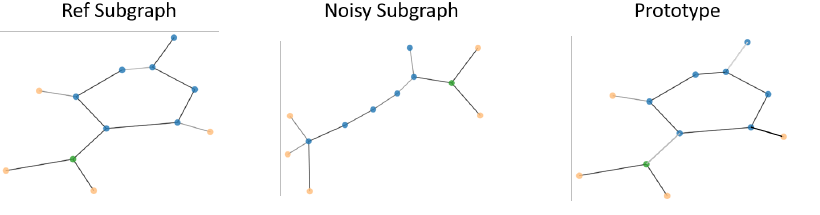
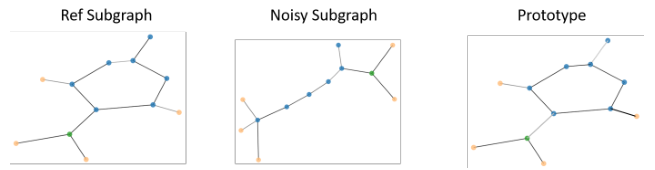
Prevent blog figures from being clipped
Make paper-review figures render in a wider contain frame and replace the GNNExplainer crops with PDF-derived assets that include the full figure area.

Constraint: User reported that the published paper figures were visually clipped.

Rejected: CSS-only fix | Several source PNGs were already tightly cropped, so the assets also needed replacement.

Confidence: high

Scope-risk: moderate

Directive: For paper figure posts, preserve full figure bounds at the asset level and use contain-style responsive frames rather than tight crops.

Tested: python -m json.tool data/blog/posts.json; pytest -q tests/test_seo.py; npm --prefix web-ui run build; manual inspection of regenerated representative figures.

Not-tested: Browser screenshot comparison after production deploy.

diff --git a/web-ui/src/components/BlogPage.css b/web-ui/src/components/BlogPage.css
@@ -1129,9 +1129,10 @@
 
 .blog-detail-content img {
   display: block;
-  width: auto;
+  width: 100%;
   max-width: 100%;
   height: auto;
+  max-height: none;
   box-sizing: border-box;
   margin: 34px auto 10px;
   border-radius: 16px;
@@ -1139,16 +1140,21 @@
   background: var(--wov-04);
   padding: 10px;
   object-fit: contain;
+  object-position: center center;
   box-shadow: 0 18px 50px rgba(0, 0, 0, 0.22);
 }
 
 .blog-detail-content p:has(> img:only-child) {
-  max-width: 100%;
-  margin: 34px auto 10px;
+  width: min(100vw - 48px, 1120px);
+  max-width: none;
+  margin: 34px 0 10px 50%;
   overflow: visible;
+  transform: translateX(-50%);
 }
 
 .blog-detail-content p:has(> img:only-child) img {
+  width: 100%;
+  max-width: 100%;
   margin-top: 0;
 }
 
@@ -1209,6 +1215,11 @@
   .blog-detail-content table {
     margin-left: -2px;
     width: calc(100% + 4px);
+  }
+
+  .blog-detail-content p:has(> img:only-child) {
+    width: calc(100vw - 24px);
+    margin-left: 50%;
   }
 
   .blog-detail-content img {
